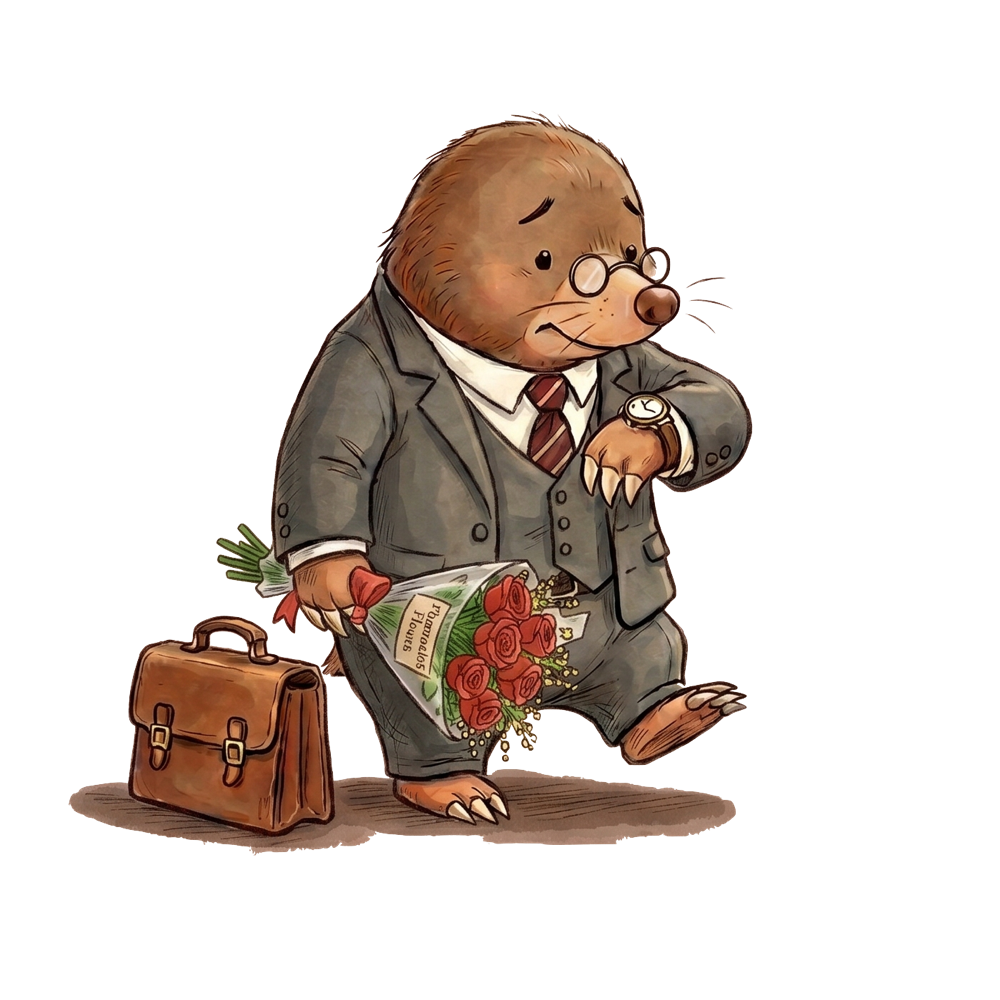
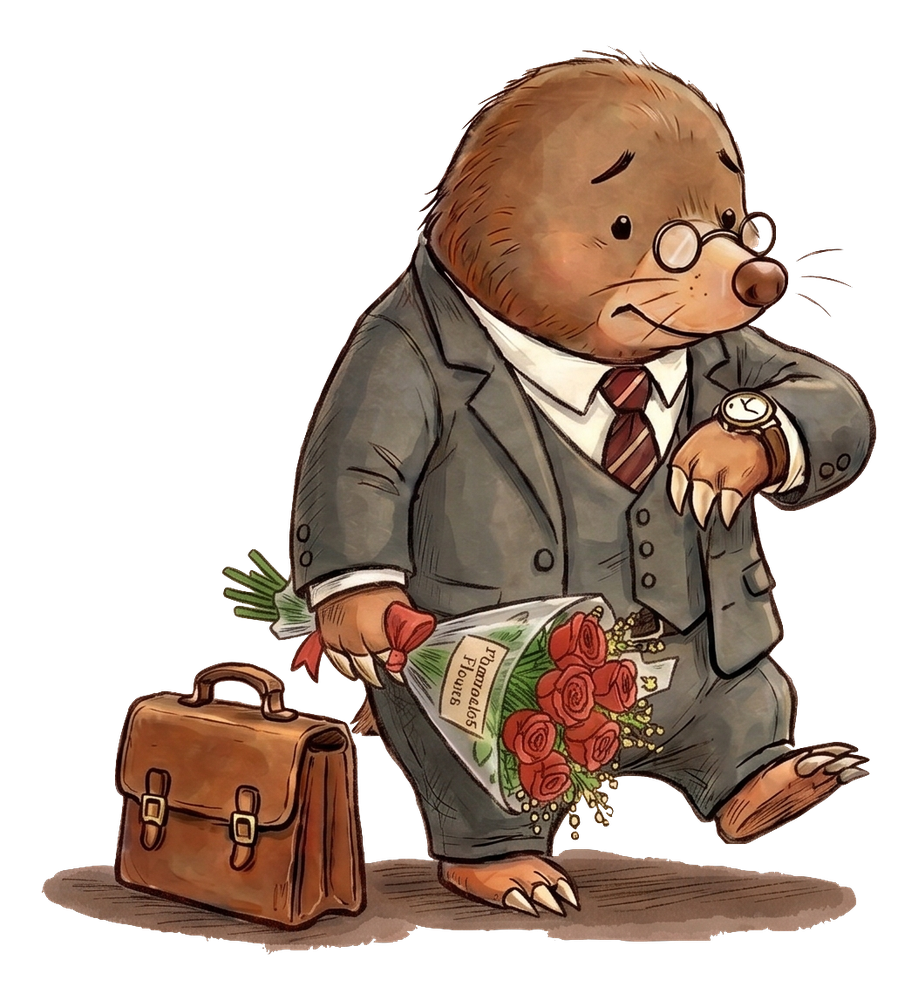
Herman: impatient foot-tap motion (single frame)
The two separately-generated frames (foot up vs down) differ in scale and
proportion (character drift), so toggling them morphed/jumped rather than tapping
cleanly. Instead, keep the hero frame and give it a crisp CSS foot-tap (lift →
tap-down with a squash, grounded at the feet) — lively with no morphing.

diff --git a/components/Mole.tsx b/components/Mole.tsx
@@ -2,8 +2,8 @@
 
 /**
  * Herman — the suited, watch-checking mole on the waiting screen.
- * A single hand-illustrated PNG (public/herman.png) with a gentle CSS idle
- * "breathe" so he feels alive without a frame-by-frame rig. Fully isolated:
+ * A single hand-illustrated PNG (public/herman.png) with an impatient CSS
+ * foot-tap so he feels alive without a frame-by-frame rig. Fully isolated:
  * swapping the art or adding more frames only touches this file.
  *
  * To upgrade to a real fidget loop later, drop in extra pose PNGs and cross-fade
@@ -29,14 +29,17 @@ const moleCss = `
   width: 100%;
   height: 100%;
   object-fit: contain;
-  transform-origin: 50% 92%;
-  animation: mole-breathe 4.6s ease-in-out infinite;
+  transform-origin: 50% 100%;
+  animation: herman-tap 0.68s ease-in-out infinite;
   filter: drop-shadow(0 14px 24px rgba(150, 80, 110, 0.32));
   user-select: none;
 }
-@keyframes mole-breathe {
-  0%, 100% { transform: translateY(0) scale(1) rotate(0deg); }
-  50% { transform: translateY(-6px) scale(1.018) rotate(-0.7deg); }
+/* impatient foot-tap: a small lift, a quick tap-down with a squash, then a beat of rest */
+@keyframes herman-tap {
+  0%, 100% { transform: translateY(0) scaleY(1); }
+  10% { transform: translateY(-2px); }
+  22% { transform: translateY(4px) scaleY(0.985); }
+  34% { transform: translateY(0) scaleY(1); }
 }
 @media (prefers-reduced-motion: reduce) {
   .mole-img { animation: none; }